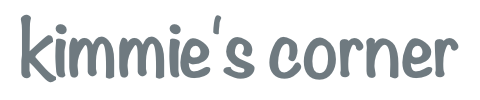
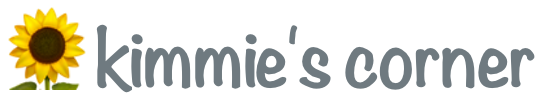
042926-ident

diff --git a/_includes/header.html b/_includes/header.html
@@ -1,5 +1,5 @@
 <header id="branding">
-<div id="site-title" style="min-width: 100%;"><a href="/" title="kimmie’s corner" rel="home" class="u-url url"><span class="p-name" ><img src="/images/kimmiescorner.png" alt="" width="340" title="kimmie’s corner"></span></a></div>
+<div id="site-title" style="min-width: 100%;"><a href="/" title="kimmie’s corner" rel="home" class="u-url url"><span class="p-name" ><img src="/images/kimmiescorner.png" alt="" width="420" title="kimmie’s corner"></span></a></div>
 </header>
 <!--
 <div id="dswitch">
